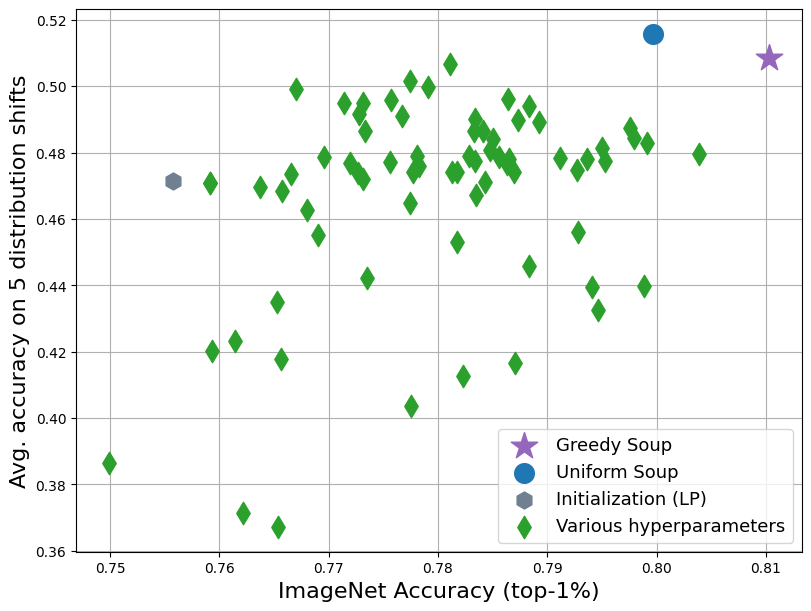
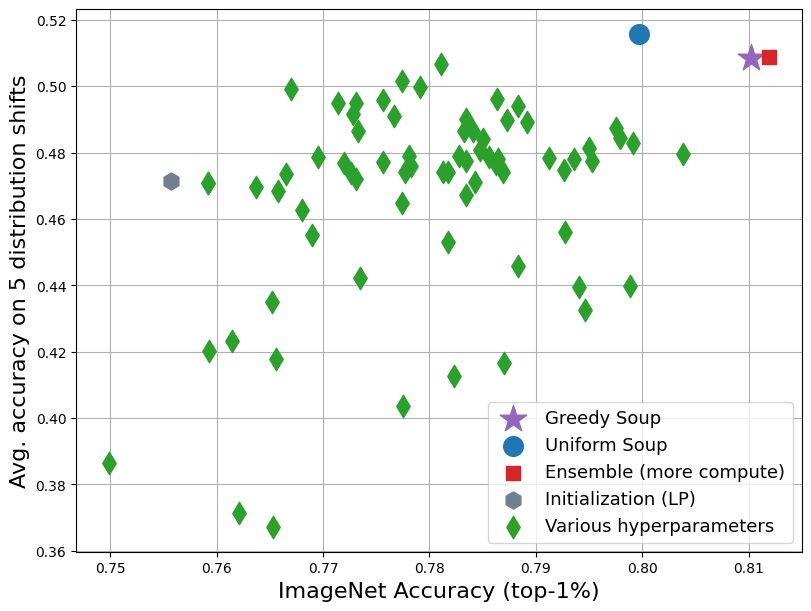
ensemble changes

diff --git a/main.py b/main.py
@@ -12,7 +12,7 @@ import numpy as np
 import pandas as pd
 
 from datasets import ImageNet2p, ImageNet, ImageNetV2, ImageNetSketch, ImageNetR, ObjectNet, ImageNetA
-from utils import get_model_from_sd, test_model_on_dataset
+from utils import get_model_from_sd, test_model_on_dataset, test_cached_predictions_on_dataset
 
 def parse_arguments():
     parser = argparse.ArgumentParser()
@@ -41,7 +41,13 @@ def parse_arguments():
         "--greedy-soup", action="store_true", default=False,
     )
     parser.add_argument(
+        "--ensemble", action="store_true", default=False,
+    )
+    parser.add_argument(
         "--plot", action="store_true", default=False,
+    )
+    parser.add_argument(
+        "--cache-predictions", action="store_true", default=False,
     )
     parser.add_argument(
         "--batch-size",
@@ -63,6 +69,7 @@ if __name__ == '__main__':
     INDIVIDUAL_MODEL_RESULTS_FILE = 'individual_model_results.jsonl'
     UNIFORM_SOUP_RESULTS_FILE = 'uniform_soup_results.jsonl'
     GREEDY_SOUP_RESULTS_FILE = 'greedy_soup_results.jsonl'
+    ENSEMBLE_RESULTS_FILE = 'ensemble_results.jsonl'
 
     # Step 1: Download models.
     if args.download_models:
@@ -78,7 +85,7 @@ if __name__ == '__main__':
     model_paths = [os.path.join(args.model_location, f'model_{i}.pt') for i in range(NUM_MODELS)]
 
     # Step 2: Evaluate individual models.
-    if args.eval_individual_models or args.uniform_soup or args.greedy_soup:
+    if args.eval_individual_models or args.uniform_soup or args.greedy_soup or args.ensemble:
         base_model, preprocess = clip.load('ViT-B/32', 'cpu', jit=False)
 
     if args.eval_individual_models:
@@ -98,7 +105,11 @@ if __name__ == '__main__':
                 print(f'Evaluating model {j} of {NUM_MODELS - 1} on {dataset_cls.__name__}.')
 
                 dataset = dataset_cls(preprocess, args.data_location, args.batch_size, args.workers)
-                accuracy = test_model_on_dataset(model, dataset)
+                accuracy = test_model_on_dataset(
+                    model, 
+                    dataset, 
+                    cache_loc=os.path.join(args.model_location, 'cache', dataset_cls.__name__, f'model_{j}.pt') if args.cache_predictions else None,
+                )
                 results[dataset_cls.__name__] = accuracy
                 print(accuracy)
 
@@ -197,7 +208,33 @@ if __name__ == '__main__':
         with open(GREEDY_SOUP_RESULTS_FILE, 'a+') as f:
             f.write(json.dumps(results) + '\n')
 
-    # Step 5: Plot.
+    # Step 5: Ensemble.
+    if args.ensemble:
+        # make sure that predictions are cached.
+        # also -- please use the same size batch size that you did when
+        # caching the predictions.
+        assert os.path.exists(os.path.join(args.model_location, 'cache'))
+        if os.path.exists(ENSEMBLE_RESULTS_FILE):
+            os.remove(ENSEMBLE_RESULTS_FILE)
+
+        results = {'model_name' : f'ensemble'}
+        for dataset_cls in [ImageNet2p, ImageNet, ImageNetV2, ImageNetSketch, ImageNetR, ObjectNet, ImageNetA]:
+
+            print(f'Evaluating on {dataset_cls.__name__}.')
+            predictions = [ x / float(NUM_MODELS) for x in torch.load(os.path.join(args.model_location, 'cache', dataset_cls.__name__, f'model_0.pt'))]
+            for j in range(1, NUM_MODELS):
+                    to_add = torch.load(os.path.join(args.model_location, 'cache', dataset_cls.__name__, f'model_{j}.pt'))
+                    for i, x in enumerate(to_add):
+                        predictions[i] += x / float(NUM_MODELS)
+            dataset = dataset_cls(preprocess, args.data_location, args.batch_size, args.workers)
+            accuracy = test_cached_predictions_on_dataset(predictions, dataset)
+            results[dataset_cls.__name__] = accuracy
+            print(accuracy)
+       
+        with open(ENSEMBLE_RESULTS_FILE, 'a+') as f:
+            f.write(json.dumps(results) + '\n')
+
+    # Step 6: Plot.
     if args.plot:
         individual_model_db = pd.read_json(INDIVIDUAL_MODEL_RESULTS_FILE, lines=True)
         individual_model_db['OOD'] = 1./5 * (individual_model_db['ImageNetV2'] + 
@@ -211,6 +248,10 @@ if __name__ == '__main__':
         greedy_soup_db['OOD'] = 1./5 * (greedy_soup_db['ImageNetV2'] + 
             greedy_soup_db['ImageNetR'] + greedy_soup_db['ImageNetSketch'] + 
             greedy_soup_db['ObjectNet'] + greedy_soup_db['ImageNetA'])
+        ensemble_db = pd.read_json(ENSEMBLE_RESULTS_FILE, lines=True)
+        ensemble_db['OOD'] = 1./5 * (ensemble_db['ImageNetV2'] + 
+            ensemble_db['ImageNetR'] + ensemble_db['ImageNetSketch'] + 
+            ensemble_db['ObjectNet'] + ensemble_db['ImageNetA'])
 
         fig = plt.figure(constrained_layout=True, figsize=(8, 6))
         ax = fig.subplots()
@@ -232,6 +273,15 @@ if __name__ == '__main__':
             color='C0',
             s=200,
             label='Uniform Soup',
+            zorder=10
+        )
+        ax.scatter(
+            ensemble_db['ImageNet'], 
+            ensemble_db['OOD'], 
+            marker='s', 
+            color='C3',
+            s=90,
+            label='Ensemble (more compute)',
             zorder=10
         )
 

diff --git a/utils.py b/utils.py
@@ -1,6 +1,8 @@
-import torch
 import math
 import time
+import os
+
+import torch
 
 class ModelWrapper(torch.nn.Module):
     def __init__(self, model, feature_dim, num_classes, normalize=False, initial_weights=None):
@@ -50,7 +52,12 @@ def maybe_dictionarize_batch(batch):
         raise ValueError(f'Unexpected number of elements: {len(batch)}')
 
 
-def test_model_on_dataset(model, dataset):
+def test_model_on_dataset(model, dataset, cache_loc=None):
+
+    cache = cache_loc is not None
+    if cache:
+        os.makedirs('/'.join(cache_loc.split('/')[:-1]), exist_ok=True)
+        tocache = []
 
     model.eval()
     device = 'cuda'
@@ -83,8 +90,65 @@ def test_model_on_dataset(model, dataset):
             if isinstance(logits, list):
                 logits = logits[0]
 
-
             pred = logits.argmax(dim=1, keepdim=True).to(device)
+            if hasattr(dataset, 'accuracy'):
+                acc1, num_total = dataset.accuracy(logits, y, image_paths, None)
+                correct += acc1
+                n += num_total
+            else:
+                correct += pred.eq(y.view_as(pred)).sum().item()
+                n += y.size(0)
+
+            if cache:
+                tocache.append(logits.clone().cpu())
+
+            batch_time = time.time() - end
+            end = time.time()
+            if i % 20 == 0:
+                percent_complete = 100.0 * i / len(loader)
+                print(
+                    f"[{percent_complete:.0f}% {i}/{len(loader)}]\t"
+                    f"Acc: {100 * (correct/n):.2f}\tData (t) {data_time:.3f}\tBatch (t) {batch_time:.3f}"
+                )
+
+        if cache:
+            torch.save(tocache, cache_loc)
+        top1 = correct / n
+        return top1
+
+
+def test_cached_predictions_on_dataset(predictions, dataset):
+
+    with torch.no_grad():
+        top1, correct, n = 0., 0., 0.
+        end = time.time()
+        loader = dataset.test_loader
+        if type(dataset).__name__ == 'ImageNet2p':
+            loader = dataset.train_loader
+            # assert to make sure the imagenet held-out minival logic is consistent across machines.
+            # tested on a few machines but if this fails for you please submit an issue and we will resolve.
+            assert dataset.train_dataset.__getitem__(dataset.sampler.indices[1000])['image_paths'].endswith('n01675722_4108.JPEG')
+
+        for i, batch in enumerate(loader):
+            batch = maybe_dictionarize_batch(batch)
+            _, labels = batch['images'], batch['labels']
+            data_time = time.time() - end
+            y = labels
+            if 'image_paths' in batch:
+                image_paths = batch['image_paths']
+
+            logits = predictions[i]
+
+            projection_fn = getattr(dataset, 'project_logits', None)
+            if projection_fn is not None:
+                logits = projection_fn(logits, 'cpu')
+
+            if hasattr(dataset, 'project_labels'):
+                y = dataset.project_labels(y, 'cpu')
+            if isinstance(logits, list):
+                logits = logits[0]
+
+            pred = logits.argmax(dim=1, keepdim=True)
             if hasattr(dataset, 'accuracy'):
                 acc1, num_total = dataset.accuracy(logits, y, image_paths, None)
                 correct += acc1
